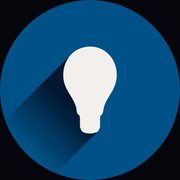
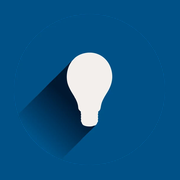
Arredonda o ícone do app e fixa o botão de lançamento
O ícone aparecia quadrado onde o sistema pinta o fundo: o `apple-icon`
e o `maskable` eram um quadrado quase preto com o disco azul encolhido
no meio. Onde o iPhone e o Android recortam a forma, sobrava a moldura
escura; onde não recortam, sobrava o quadrado inteiro.

Agora o azul do disco vai até a borda nesses dois, e o disco entra com
uma folga de 15% para a lâmpada não ficar maior ali do que no ícone
redondo, onde ela é medida contra o disco. Os ícones `any` continuam
com os cantos transparentes — é a transparência que os faz aparecerem
redondos na barra de tarefas e no Dock.

No financeiro, o botão de lançar morava no meio de uma tela longa.
Um flutuante entra quando o de cima sai de vista, no celular só com o
ícone para não cobrir a tabela.

diff --git a/src/app/painel/financeiro/lancamentos.tsx b/src/app/painel/financeiro/lancamentos.tsx
@@ -1,6 +1,6 @@
 "use client";
 
-import { useCallback, useEffect, useMemo, useState } from "react";
+import { useCallback, useEffect, useMemo, useRef, useState } from "react";
 import {
   AlertTriangle, Check, Download, Pencil, Plus, Scale, TrendingDown, TrendingUp, Trash2, X,
 } from "lucide-react";
@@ -115,7 +115,26 @@ export function Lancamentos({
      e ninguém rola 410 linhas: procura. */
   const [mostrando, setMostrando] = useState(PAGINA);
   const [criando, setCriando] = useState(false);
+  /* O financeiro é uma tela longa, e o botão de lançar mora no meio dela.
+     Quem está conferindo a tabela lá embaixo teria que voltar ao topo só
+     para achá-lo. O flutuante entra quando o de cima sai de vista — nunca
+     os dois ao mesmo tempo, que seria a mesma ação pedida duas vezes. */
+  const ancora = useRef<HTMLDivElement>(null);
+  const [lancarLonge, setLancarLonge] = useState(false);
   const [editando, setEditando] = useState<Lancamento | null>(null);
+
+  useEffect(() => {
+    const alvo = ancora.current;
+    if (!alvo) return;
+    const observador = new IntersectionObserver(
+      ([entrada]) => setLancarLonge(!entrada.isIntersecting),
+      /* A margem negativa desconta o cabeçalho fixo: sem ela o botão
+         conta como visível enquanto está escondido atrás dele. */
+      { rootMargin: "-72px 0px 0px 0px" },
+    );
+    observador.observe(alvo);
+    return () => observador.disconnect();
+  }, []);
   /* Baixa é irreversível pela tela: uma vez pago, só editando o lançamento
      se volta atrás. E a linha inteira do mês vizinho fica a um pixel de
      distância, então o clique errado acontece. */
@@ -481,10 +500,10 @@ export function Lancamentos({
         </section>
       )}
 
-      <section className="space-y-4">
+      <section className="space-y-4 pb-20">
         <div className="flex flex-wrap items-center justify-between gap-3">
           <h2 className="font-display text-base font-bold text-tinta">Lançamentos</h2>
-          <div className="flex items-center gap-2">
+          <div ref={ancora} className="flex items-center gap-2">
             <button
               type="button"
               onClick={exportar}
@@ -608,6 +627,30 @@ export function Lancamentos({
           </button>
         )}
       </section>
+
+      {/* Escondido, não desmontado: assim entra e sai com transição, e o
+          `aria-hidden` com `tabIndex={-1}` impede que o teclado e o leitor
+          de tela alcancem um botão que ninguém está vendo. */}
+      <div
+        aria-hidden={!lancarLonge}
+        className={cn(
+          "fixed right-5 z-40 transition-all duration-200 motion-reduce:transition-none",
+          lancarLonge ? "translate-y-0 opacity-100" : "pointer-events-none translate-y-3 opacity-0",
+        )}
+        style={{ bottom: "calc(1.25rem + env(safe-area-inset-bottom))" }}
+      >
+        <Botao
+          onClick={() => setCriando(true)}
+          tabIndex={lancarLonge ? undefined : -1}
+          className="h-13 rounded-full px-5 shadow-[0_12px_32px_-10px_rgba(22,104,245,.8)] max-sm:w-13 max-sm:px-0"
+        >
+          <Plus className="size-5" />
+          {/* No celular vira só o ícone: um rótulo inteiro ali cobriria a
+              tabela que a pessoa está lendo. O texto continua para quem
+              navega por leitor de tela. */}
+          <span className="max-sm:sr-only">Novo lançamento</span>
+        </Botao>
+      </div>
 
       {baixando && (
         <ConfirmarBaixa
